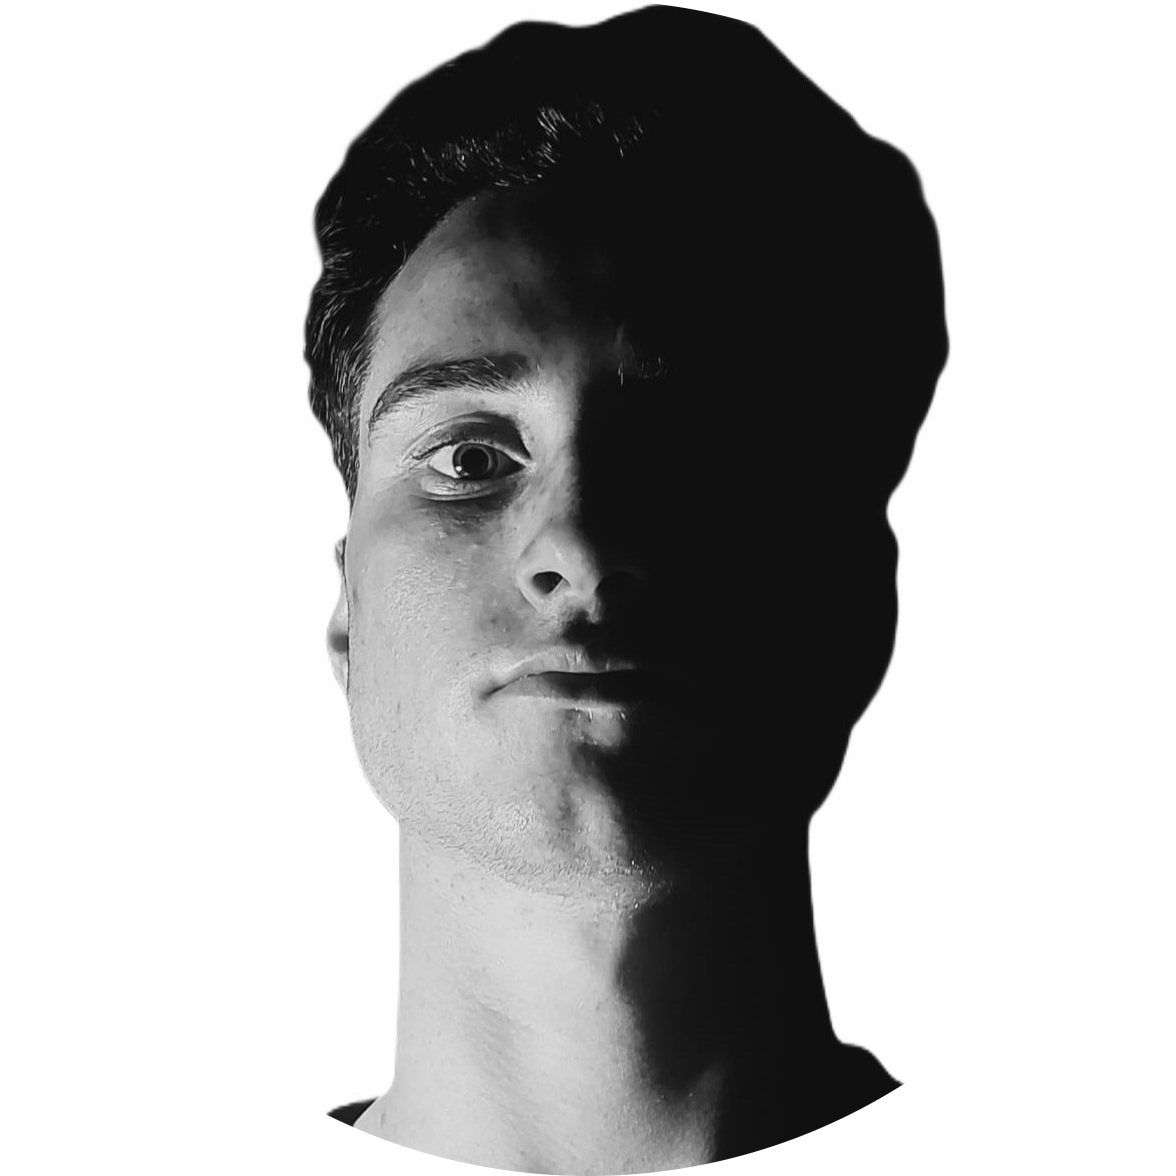
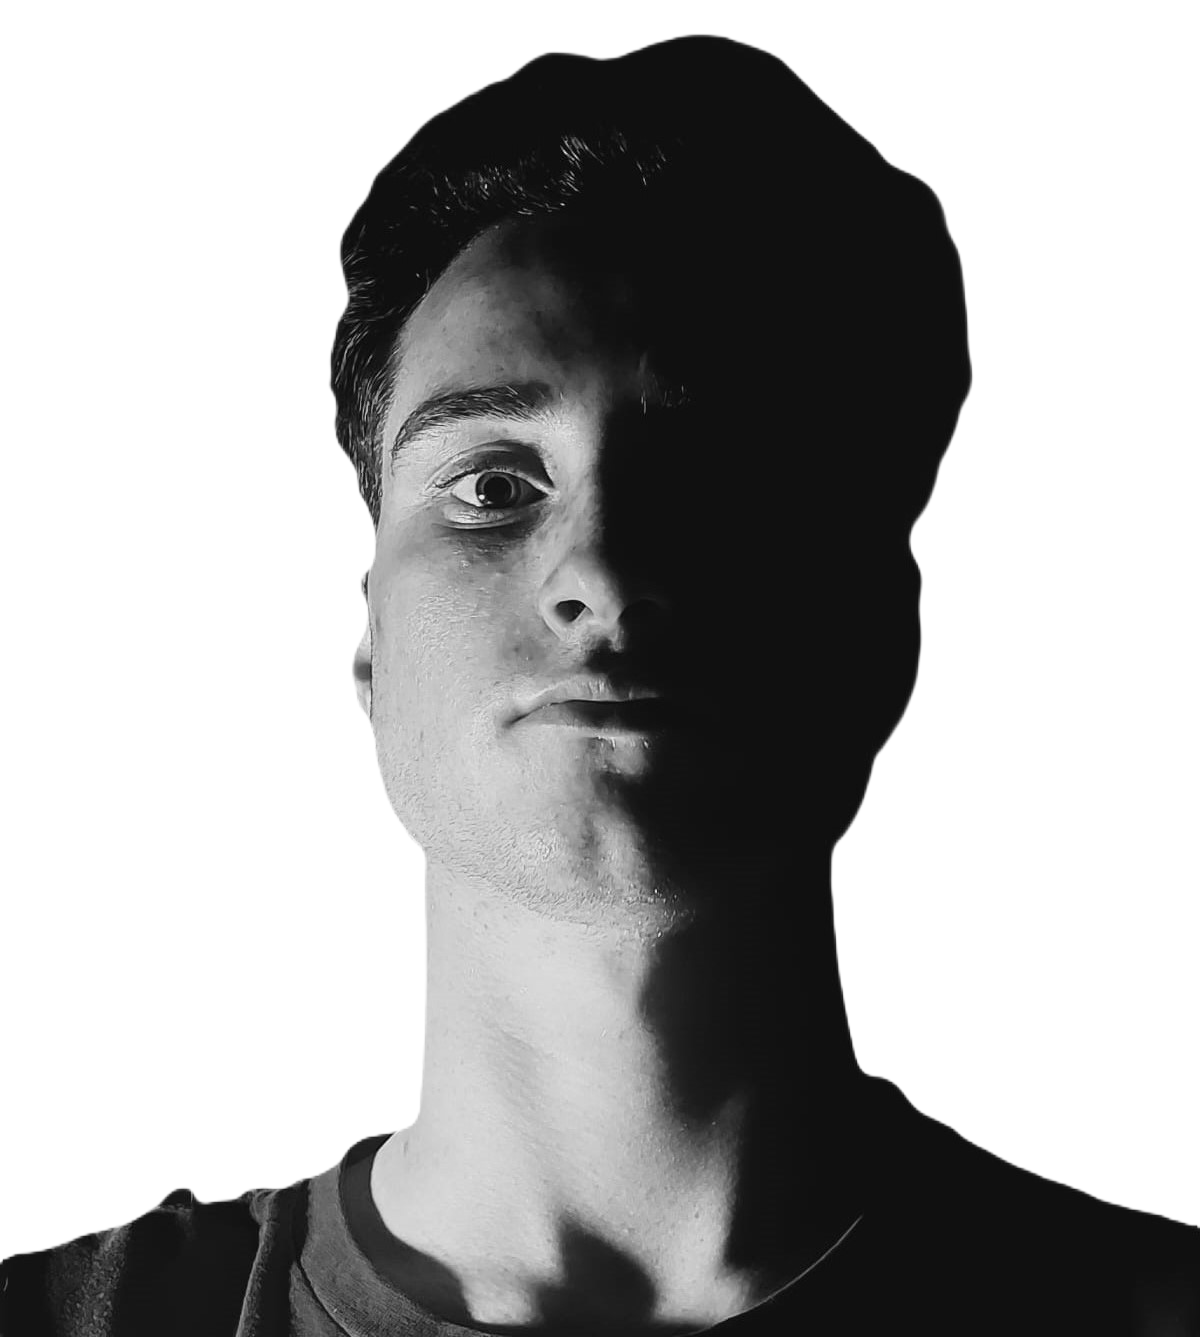
Small Changes
Made some adjustments to the selfie image on the Home section such as the background color.

diff --git a/script.js b/script.js
@@ -46,7 +46,19 @@ document.addEventListener("DOMContentLoaded", function(){
 
     //Typing Text Animation for Header Text
     var typed = new Typed(".mult-text",{
-        strings: ["Frontend Developer", "Backend Developer", "Web Developer"],
+        strings: [
+            "Frontend Developer",
+            "Backend Developer",
+            "Web Developer",
+            "Python Enthusiast",
+            "Java Programmer",
+            "SQL Specialist",
+            "Data Science Aficionado",
+            "Cybersecurity Enthusiast",
+            "AI Explorer",
+            "Software Developer",
+            "Problem Solver",
+    ],
         typeSpeed: 100,
         backSpeed: 100,
         backDelay: 1000,

diff --git a/index.html b/index.html
@@ -10,6 +10,8 @@
         <script src="https://unpkg.com/typed.js@2.1.0/dist/typed.umd.js"></script> <!--For typing animation in header text-->
         <script src="https://kit.fontawesome.com/c47759d4b5.js" crossorigin="anonymous"></script> <!--For using cool icons-->
     </head>
+
+    
     <body>
         <!-----------------Pre Loader----------------->    
         <!-- <div class="preloader">
@@ -175,7 +177,7 @@
                         </div>
                     </div>
                 </div>
-                <a href="#" class="btn">See more</a>
+                <!-- <a href="#" class="btn">See more</a> -->
             </div>
         </div>
 

diff --git a/style.css b/style.css
@@ -177,13 +177,15 @@ nav{
 /*-----------------Home Selfie Image-----------------*/
 .selfie img{
     width: 500px;
+    height: 500px;
     max-width: 600px;
     opacity: 0;
     animation: zoomIn 1s ease forwards, floatImage 4s ease-in-out infinite;
     animation-delay: 2s, 3s;
     border-radius: 50%;
-    
-    box-shadow:  5px -5px 30px #45A29E, -20px 15px 30px #66fcf1;
+    background: #66fcf1;
+    box-shadow:  24px -24px 57px #45A29E, -24px 24px 57px #66FCF1;
+    background: linear-gradient(70deg, #fff 10%, #c5c6c7 30%, #1f2833 50%, #0b0c10 75%);
 }
 
 
